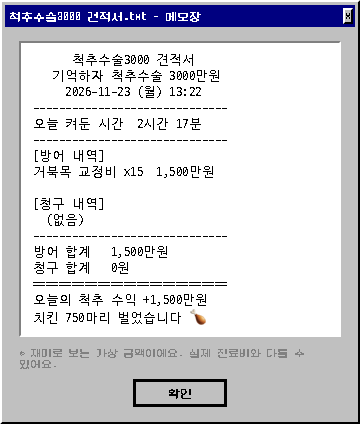
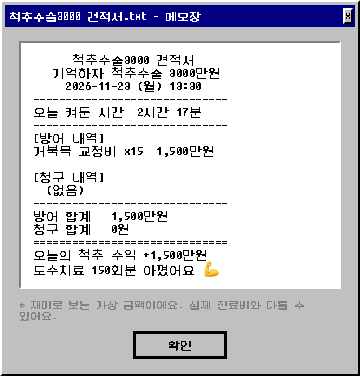
Use only installed fonts to stop Qt font-alias warnings; receipt counts 도수치료 sessions
- Drop the unbundled Galmuri11 font; filter font lists to installed families
- Set the app default font so unstyled text doesn't resolve 'Sans Serif'
- Receipt: 'N회분' of 10만원 도수치료 instead of chickens after the 만원 rescale

diff --git a/src/posture_alert/ui/retro.py b/src/posture_alert/ui/retro.py
@@ -11,18 +11,26 @@ BLACK = "#000000"
 NAVY = "#000080"
 BLUE = "#1084d0"
 
-# assets/fonts 에 Galmuri11.ttf 등 픽셀 폰트를 넣으면 자동으로 쓴다
-FONT_FAMILIES = ["Galmuri11", "DungGeunMo", "Malgun Gothic", "Apple SD Gothic Neo"]
+# 앞에서부터 있는 폰트를 쓴다. 픽셀 폰트(둥근모꼴)는 assets/fonts 에 들어 있음
+PIXEL_FONTS = ["DungGeunMo"]
+FONT_FAMILIES = PIXEL_FONTS + ["Malgun Gothic", "Apple SD Gothic Neo"]  # 없으면 Windows/Mac 기본 한글 폰트
+MONO_FAMILIES = PIXEL_FONTS + ["D2Coding", "Consolas", "Menlo"]
 
 
 def load_fonts(assets: Path) -> None:
     for f in (assets / "fonts").glob("*.[ot]tf"):
-        QFontDatabase.addApplicationFont(str(f))
+        QFontDatabase.addApplicationFont(str(f.resolve()))
 
 
-def retro_font(px: int = 12, bold: bool = False) -> QFont:
+def installed(families: list[str]) -> list[str]:
+    """설치된 폰트만 남긴다. 없는 이름을 넘기면 Qt 가 대체 폰트를 찾느라 느려지고 경고를 찍음."""
+    have = set(QFontDatabase.families())
+    return [f for f in families if f in have] or families[-1:]
+
+
+def retro_font(px: int = 12, bold: bool = False, families: list[str] | None = None) -> QFont:
     f = QFont()
-    f.setFamilies(FONT_FAMILIES)
+    f.setFamilies(installed(families or FONT_FAMILIES))
     f.setPixelSize(px)
     if _has_pixel_font():
         # 픽셀 폰트: 계단 현상 그대로, 굵게는 끔 (굵은 글꼴이 없어서 가짜 굵게가 번짐)
@@ -34,8 +42,7 @@ def retro_font(px: int = 12, bold: bool = False) -> QFont:
 
 
 def _has_pixel_font() -> bool:
-    families = set(QFontDatabase.families())
-    return any(name in families for name in FONT_FAMILIES[:2])
+    return bool(set(PIXEL_FONTS) & set(QFontDatabase.families()))
 
 
 def _raised(w=2):

diff --git a/src/posture_alert/ui/popup.py b/src/posture_alert/ui/popup.py
@@ -17,7 +17,7 @@ from PySide6.QtWidgets import (QFrame, QHBoxLayout, QLabel, QProgressBar,
 
 from ..engine.billing import DISCLAIMER, SURGERY_COST, Receipt, price_of, won
 from ..engine.content import APP_NAME, APP_TAGLINE, Exercise, Message
-from .retro import (BAD_POSE, DARK, ERROR_ICON, ERROR_PAL, GOOD_POSE, NAVY,
+from .retro import (BAD_POSE, DARK, MONO_FAMILIES, ERROR_ICON, ERROR_PAL, GOOD_POSE, NAVY,
                     POSE_PAL, WARNING, WARNING_PAL, retro_font, sprite)
 
 # ---- 화면 조절용 설정값 (여기 숫자만 바꾸면 됨) ----
@@ -388,8 +388,7 @@ class ReceiptWindow(_RetroWindow):
         v = QVBoxLayout(paper)
         v.setContentsMargins(12, 10, 12, 10)
         text = QLabel(self._render(receipt, now or datetime.now(), uptime_minutes))
-        mono = retro_font(13)
-        mono.setFamilies(["Galmuri11", "D2Coding", "Menlo", "Consolas"])
+        mono = retro_font(13, families=MONO_FAMILIES)
         text.setFont(mono)
         text.setStyleSheet("color:black;")
         v.addWidget(text)
@@ -420,9 +419,9 @@ class ReceiptWindow(_RetroWindow):
                 "=" * w]
         sign = "+" if r.balance >= 0 else "-"
         out.append(f"오늘의 척추 수익 {sign}{won(abs(r.balance))}")
-        chickens = r.balance // 20_000
-        if chickens > 0:
-            out.append(f"치킨 {chickens}마리 벌었습니다 🍗")
+        sessions = r.balance // 100_000  # 도수치료 1회 10만원으로 환산
+        if sessions > 0:
+            out.append(f"도수치료 {sessions}회분 아꼈어요 💪")
         elif r.balance < 0:
             out.append("정형외과 VIP 등급까지 한 걸음 🏥")
         return "\n".join(out)

diff --git a/src/posture_alert/main.py b/src/posture_alert/main.py
@@ -25,7 +25,7 @@ from .engine.scheduler import Kind, Scheduler
 from .platform import get_monitor
 from .storage.repo import Repo
 from .ui.popup import CHARACTERS, GhostError, GuideCard, LightToast, Onboarding, ReceiptWindow
-from .ui.retro import ERROR_ICON, ERROR_PAL, STYLESHEET, load_fonts, sprite
+from .ui.retro import ERROR_ICON, ERROR_PAL, STYLESHEET, load_fonts, retro_font, sprite
 
 
 def assets_dir() -> Path:
@@ -302,6 +302,7 @@ def main() -> None:
     qapp.setApplicationName("posture-alert")  # DB 폴더 이름 고정
     qapp.setQuitOnLastWindowClosed(False)
     load_fonts(assets_dir())
+    qapp.setFont(retro_font(12))  # 따로 지정 안 한 글자도 설치된 폰트로 (기본 "Sans Serif" 찾느라 느려지는 것 방지)
     qapp.setStyleSheet(STYLESHEET)
 
     speed = 60.0 if os.environ.get("POSTURE_DEBUG") == "1" else 1.0
